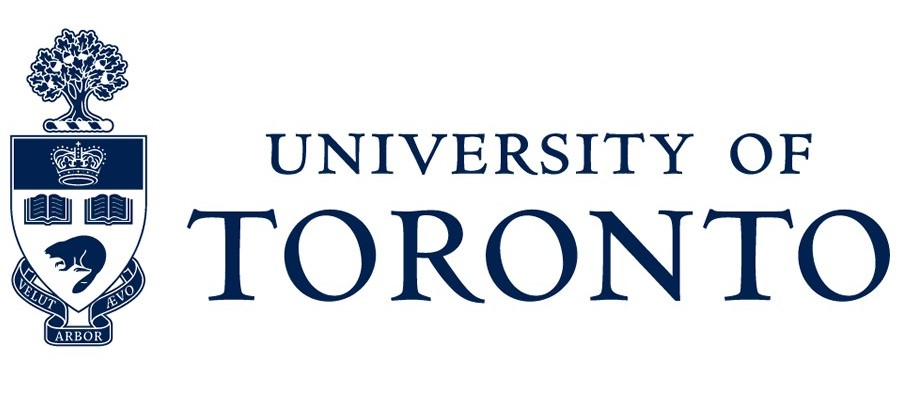
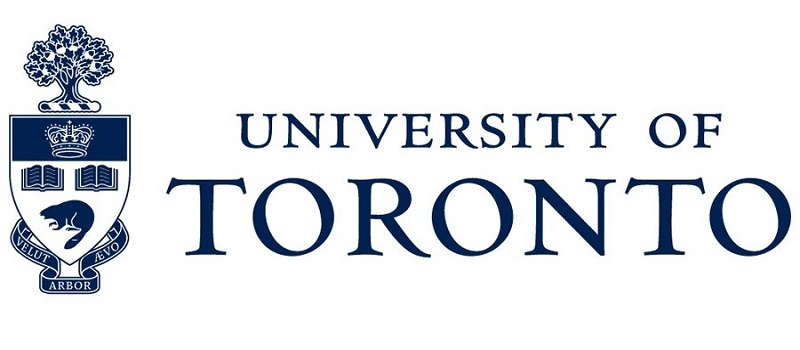
Images for the coureses

diff --git a/index.html b/index.html
@@ -121,11 +121,11 @@
           <img src="assets/img/profile.jpeg" class="img-fluid" alt="">
         </div>
         <div class="col-lg-8 pt-4 pt-lg-0 content" data-aos="fade-left">
-          <p>Focused and enthusiastic developer with a keen interest in software development and artificial intelligence and Robotics. By comprehensive exposure
+          <p>Focused and enthusiastic developer with a keen interest in software development, artificial intelligence and Robotics. By comprehensive exposure
             to the underlying concepts and applying them vividly to various projects, my love for these domains came into being.
             I am a passionate individual who thrives to build and apply algorithms to solve real-world industry problems.
 
-            Multidisciplinary  Robotics  Engineer  with  excellent  problem  solving  and  critical  thinking  abilities,  seeks  hands-on  experience  within  a  company/research lab  that  embraces  creativity  and  innovation.Through  my  studies,  I  have  gained extensive knowledge of perception in Robot Vision maintaining a decent hold in the other components of Robotic ssuch as Controls System, Behaviour Design, Forward and Inverse Kinematics, Vehicle Dynamics and many other components of Robotics Engineering.  Effective communicator who builds positive, cohesive relationship with all level of staff, eager to put my engineering knowledge to practical, applied use in order to grow while keep addingvalue to the community alongside it.
+            Multidisciplinary  Robotics  Engineer  with  excellent  problem  solving  and  critical  thinking  abilities,  seeks  hands-on  experience  within  a  company/research lab  that  embraces  creativity  and  innovation.Through  my  studies,  I  have  gained extensive knowledge of perception in Robot Vision maintaining a decent hold in the other components of Robotic ssuch as Controls System, Behaviour Design, Forward and Inverse Kinematics, Vehicle Dynamics and many other components of Robotics Engineering.  Effective communicator who builds positive, cohesive relationship with all level of staff, eager to put my engineering knowledge to practical, applied use in order to grow while keep addingvalue to the community alongside it. Feel free to contact me for any research colaboration related to AI and Computer Vision. A project with some direct positive implications of AI on our society is always welcomed.  
           </p>
           <div class="row">
             <div class="col-lg-6">
@@ -389,11 +389,11 @@
 
         <div class="col-lg-4 col-md-6 portfolio-item filter-project" style="position: absolute; left: 0px; top: 218.875px;">
           <div class="portfolio-wrap">
-            <img src="assets/img/certification/intel.jpg" class="img-fluid" alt="">
+            <img src="assets/img/certification/UofT2.jpg" class="img-fluid" alt="">
             <div class="portfolio-info">
-              <h4>Introduction to Practical Deep Learning</h4>
+              <h4>Introduction to Self-Driving Cars</h4>
               <div class="portfolio-links">
-                <a href="https://drive.google.com/file/d/1FSwPt19EzY_tpvqkE6igtLf3gccKcssC/view?usp=sharing" target="_blank" title="Certificate"><i class="bx bx-link"></i></a>
+                <a href="https://coursera.org/share/25d979646fe1bba55e2a14a4aa0b5790" target="_blank" title="Certificate"><i class="bx bx-link"></i></a>
               </div>
             </div>
           </div>
@@ -712,21 +712,10 @@
             </div>
           </div>
         </div>
-        <div class="col-lg-4 col-md-6 portfolio-item filter-project">
-          <!-- <br> -->
-          <center><h4>Drowsiness Detection</h4></center>
-          <div class="portfolio-wrap">
-            <img src="assets/img/project/gan.jpg" class="img-fluid" alt="">
-            <div class="portfolio-info">
-              <div class="portfolio-links">
-                <a href="projects/gan.html" data-gall="portfolioDetailsGallery" data-vbtype="iframe" class="venobox" title="Project Details"><i class="bx bx-info-circle"></i></a>
-              </div>
-            </div>
-          </div>
-        </div>
+        
 
 
-        <div class="col-lg-4 col-md-6 portfolio-item filter-project">
+        <div class="col-lg-4 col-md-6 portfolio-item filter-app">
           <!-- <br> -->
           <center><h4>ROS Project</h4></center>
           <div class="portfolio-wrap">
@@ -754,6 +743,18 @@
           </div>
         </div>
 
+		<div class="col-lg-4 col-md-6 portfolio-item filter-project">
+          <!-- <br> -->
+          <center><h4>Drowsiness Detection</h4></center>
+          <div class="portfolio-wrap">
+            <img src="assets/img/project/gan.jpg" class="img-fluid" alt="">
+            <div class="portfolio-info">
+              <div class="portfolio-links">
+                <a href="projects/gan.html" data-gall="portfolioDetailsGallery" data-vbtype="iframe" class="venobox" title="Project Details"><i class="bx bx-info-circle"></i></a>
+              </div>
+            </div>
+          </div>
+        </div>
 
         <div class="col-lg-4 col-md-6 portfolio-item filter-project">
           <center><h4>Image to Speech </h4></center>
